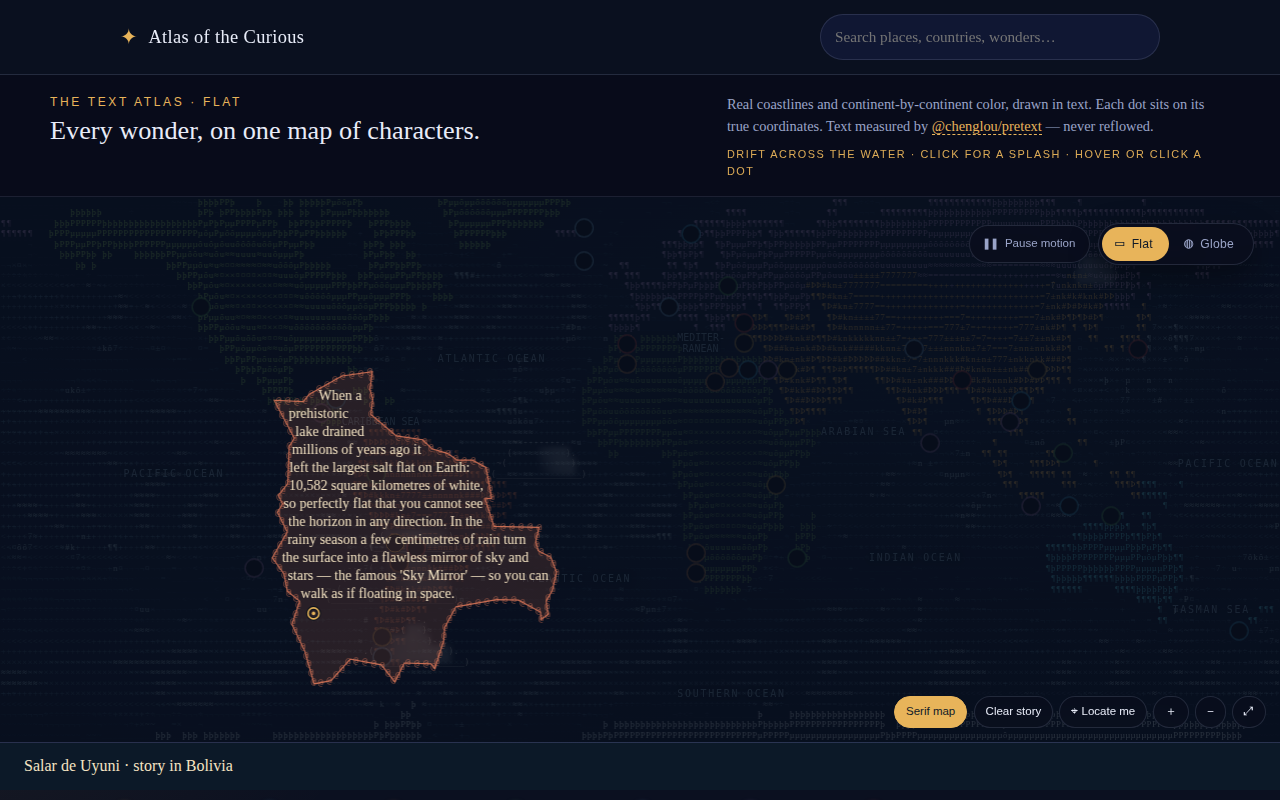
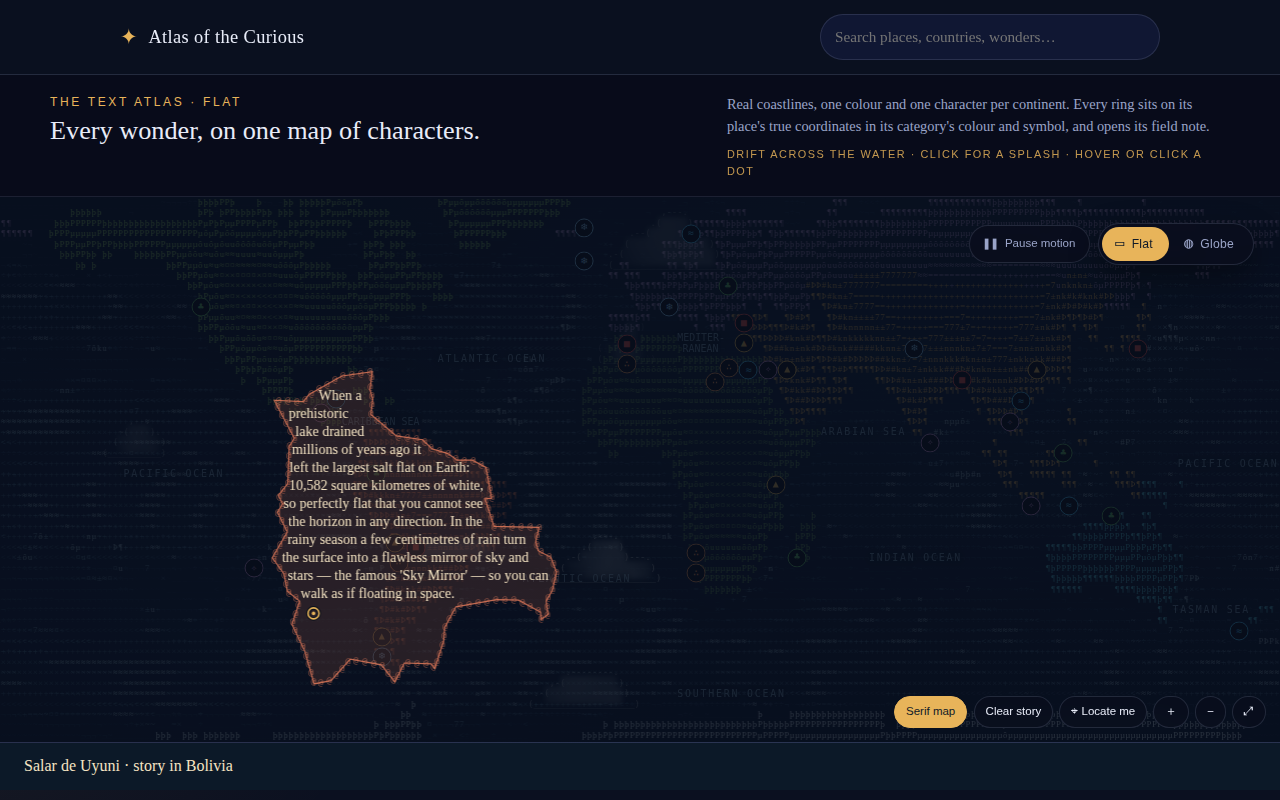
Address review round 5: category symbols, clear names, journeys, copy
- Each category has a text glyph (▲ ≈ ∴ ♣ ❄ ✧ ■) shown in flat rings,
  globe rings and the legend; both previews and every marker's accessible
  name now say the category.
- Globe names keep clear of the controls floating over the stage.
- A keyboard-activated flat cluster focuses its first place and announces
  what it revealed.
- The journey selector starts empty and never offers the open place.
- The intro explains how to read the map; the library credit moves to
  the footer.

Changed region(s): [[0.5625, 0.125, 0.9375, 0.1875]]

diff --git a/earthxt/place-layer.js b/earthxt/place-layer.js
@@ -3,6 +3,7 @@ import { fitHoverTagline } from '../js/hover-card.js';
 import { prepareFlowText } from '../js/map-art.js';
 import { measureNaturalWidth } from '../vendor/pretext/layout.js';
 import { createPlaceRouter, projectPlaces } from './places.js';
+import { categoryGlyph } from '../js/category-colors.js';
 
 const MAX_LEADER = 80;
 
@@ -10,6 +11,8 @@ export class PlaceLayer {
   constructor(stage, layer, places, roles, colors, { standalone = false, onInspect = () => {},
     placeHref = id => `../#/place/${encodeURIComponent(id)}`, onCluster = null } = {}) {
     this.placeHref = placeHref;
+    this.ringFont = roles['map-label'].font.replace(/[\d.]+px/, '8px');
+    this.categoryLabels = new Map((globalThis.ATLAS_DATA?.categories || []).map(category => [category.id, category.label]));
     this.onCluster = onCluster;
     this.clusterButtons = [];
     this.clustered = new Set();
@@ -58,7 +61,8 @@ export class PlaceLayer {
       button.type = 'button';
       button.className = 'globe-marker';
       button.dataset.id = place.id;
-      button.setAttribute('aria-label', `${place.name}, ${place.country}`);
+      const category = this.categoryLabel(place.category);
+      button.setAttribute('aria-label', `${place.name}, ${place.country}${category ? ` — ${category}` : ''}`);
       button.setAttribute('aria-describedby', 'globe-place-card');
       button.style.setProperty('--accent', `var(--category-${place.category}, var(--gold))`);
       button.hidden = true;
@@ -84,7 +88,7 @@ export class PlaceLayer {
     this.card.setAttribute('aria-label', 'Place preview');
     this.card.hidden = true;
     this.parts = {};
-    for (const [name, tag] of [['name', 'span'], ['native', 'span'], ['loc', 'span'], ['tag', 'pre'], ['cta', standalone ? 'p' : 'a']]) {
+    for (const [name, tag] of [['cat', 'span'], ['name', 'span'], ['native', 'span'], ['loc', 'span'], ['tag', 'pre'], ['cta', standalone ? 'p' : 'a']]) {
       const element = document.createElement(tag);
       element.className = `map-card-${name}`;
       this.parts[name] = element;
@@ -116,6 +120,9 @@ export class PlaceLayer {
       const cta = this.standalone ? excerpt : 'Open field note →';
       const native = place.nativeName !== place.name ? place.nativeName : '';
       let textWidth = fit.width;
+      // The category pill is tracked uppercase in a padded, bordered box.
+      const pill = `${categoryGlyph(place.category)} ${this.categoryLabel(place.category)}`.toUpperCase();
+      textWidth = Math.max(textWidth, this.metrics.tightWidthOfText('hover-loc', pill, maxWidth * 2) * 1.12 + 22);
       for (const [role, text] of [['hover-name', place.name], ['native-name', native], ['hover-loc', place.country.toUpperCase()], ['hover-cta', cta]]) {
         if (text) textWidth = Math.max(textWidth, this.metrics.tightWidthOfText(role, text, maxWidth));
       }
@@ -131,6 +138,9 @@ export class PlaceLayer {
     this.card.dataset.id = id;
     this.card.style.setProperty('--accent', `var(--category-${place.category}, var(--gold))`);
     this.card.style.width = `${fit.width}px`;
+    // Category in words and in its glyph, as on the flat map's card.
+    this.parts.cat.textContent = `${categoryGlyph(place.category)} ${this.categoryLabel(place.category)}`;
+    this.parts.cat.style.color = `var(--category-${place.category}, var(--gold))`;
     this.parts.name.textContent = place.name;
     this.parts.native.textContent = fit.native;
     this.parts.native.hidden = !fit.native;
@@ -226,6 +236,11 @@ export class PlaceLayer {
     }
     let visibleMarkers = 0;
     const clustered = this.clustered;
+    // Ring glyphs in the registry's map face, at ring size.
+    ctx.font = this.ringFont;
+    ctx.textAlign = 'center';
+    ctx.textBaseline = 'middle';
+    if (nativeSpacing) ctx.letterSpacing = '0px';
     for (const marker of this.markers) {
       const node = this.nodes.get(marker.id);
       node.hidden = !marker.visible || clustered.has(marker.id);
@@ -238,24 +253,25 @@ export class PlaceLayer {
       const color = this.colors.get(this.byId.get(marker.id).category);
       ctx.globalAlpha = this.dimmed.has(marker.id) ? 0.18 : 1;
       ctx.beginPath();
-      ctx.arc(marker.x, marker.y, 6, 0, Math.PI * 2);
+      ctx.arc(marker.x, marker.y, 7, 0, Math.PI * 2);
       ctx.fillStyle = this.ground;
       ctx.fill();
       ctx.lineWidth = 1.5;
       ctx.strokeStyle = color;
       ctx.stroke();
-      ctx.beginPath();
-      ctx.arc(marker.x, marker.y, 2, 0, Math.PI * 2);
+      // The category glyph in the ring, as in the flat map's markers.
       ctx.fillStyle = color;
-      ctx.fill();
+      ctx.fillText(categoryGlyph(this.byId.get(marker.id).category), marker.x, marker.y + 0.5);
     }
     ctx.globalAlpha = 1;
+    ctx.textAlign = 'left';
     this.positionCard();
     this.drawMetrics.visibleMarkers = visibleMarkers;
     this.drawMetrics.labelledPlaces = this.labels.length;
     this.drawMetrics.placeLabelMs = out.placeLabelMs;
     return this.drawMetrics;
   }
+  categoryLabel(id) { return this.categoryLabels.get(id) || ''; }
   /** At planet scale, rings closer than a ring's width merge into one count
    * that zooms toward its places (`onCluster`); returns the merged ids. */
   clusterMarkers(ctx, level) {

diff --git a/index.html b/index.html
@@ -55,18 +55,17 @@
         <p class="hero-kicker"><span class="for-flat">The Text Atlas · flat</span><span class="for-globe">The Text Atlas · globe</span></p>
         <h2 id="atlas-title" class="atlas-title"><span class="for-flat">Every wonder, on one map of characters.</span><span class="for-globe">Every wonder, on one turning world.</span></h2>
         <p class="atlas-sub for-flat">
-          Real coastlines and continent-by-continent color, drawn in text. Each dot sits on
-          its true coordinates. Text measured by
-          <a class="atlas-cred" href="https://github.com/chenglou/pretext">@chenglou/pretext</a> — never reflowed.
+          Real coastlines, one colour and one character per continent. Every ring sits on its
+          place's true coordinates in its category's colour and symbol, and opens its field note.
         </p>
         <p class="atlas-sub for-globe">
-          The same continents, colors and forty dots, wrapped onto a sphere of characters.
-          Descend from the planet to coastlines to named countries.
+          The same continents, colours and forty rings, wrapped onto a sphere of characters.
+          Descend from the planet to coastlines to named countries; where rings crowd, a numbered ring zooms in.
         </p>
-        <p class="atlas-hint for-flat hint-pointer">drift across the water · click for a splash · hover or click a dot</p>
-        <p class="atlas-hint for-flat hint-touch">tap the water for a splash · tap a dot to open it</p>
-        <p class="atlas-hint for-globe hint-pointer">drag to turn · ctrl + scroll to zoom · hover or click a dot</p>
-        <p class="atlas-hint for-globe hint-touch">swipe sideways to turn · pinch to descend · tap a dot to open it</p>
+        <p class="atlas-hint for-flat hint-pointer">drift over the water · click to splash · hover or click a ring</p>
+        <p class="atlas-hint for-flat hint-touch">tap the water to splash · tap a ring to open it</p>
+        <p class="atlas-hint for-globe hint-pointer">drag to turn · ctrl + scroll to zoom · hover or click a ring</p>
+        <p class="atlas-hint for-globe hint-touch">swipe sideways to turn · pinch to zoom · tap a ring</p>
       </div>
       <div class="map-viewport" role="group" aria-label="The atlas map, shown as a flat character map or as a turning character globe, with 40 marked places.">
         <div class="view-tools">
@@ -174,7 +173,7 @@
   <footer class="site-footer">
     <div class="wrap footer-inner">
       <p><span class="brand-glyph" aria-hidden="true">✦</span> Atlas of the Curious — a static, dependency-free site. No cookies, no trackers, no external requests.</p>
-      <p class="footer-note">Coordinates approximate. Pack water, sunscreen, and humility.</p>
+      <p class="footer-note">Text measured by <a class="atlas-cred" href="https://github.com/chenglou/pretext">@chenglou/pretext</a>, never reflowed. Coordinates approximate. Pack water, sunscreen, and humility.</p>
     </div>
   </footer>
 

diff --git a/js/map.js b/js/map.js
@@ -27,7 +27,7 @@ import {
   TIER_NAME_Z, TIER_TAG_Z, TAG_MAX_LINES
 } from "./labels.js";
 import { fitHoverTagline } from "./hover-card.js";
-import { readCategoryColors } from "./category-colors.js";
+import { readCategoryColors, categoryGlyph } from "./category-colors.js";
 import { wheelZooms } from "./gesture-hint.js";
 import { routeToNearest } from "./nearest-target.js";
 import { createSeaEngine, IDLE_MAX_SENTENCES } from "./sea.js";
@@ -2009,6 +2009,11 @@ import {
         const sx = panX + mapW / 2 + (g.x - mapW / 2) * zoom;
         const sy = panY + mapH / 2 + (g.y - mapH / 2) * zoom;
         zoomTo(Math.max(CLUSTER_UNTIL + 0.1, zoom * 2.4), sx, sy);
+        // The cluster is gone now: say what it opened, and keep keyboard
+        // focus on the map at its first place.
+        const status = $("live-status");
+        if (status) status.textContent = "Zoomed in on " + names.join(", ") + ".";
+        if (e.detail === 0) g.refs[0].el.focus({ preventScroll: true });
       });
       markersEl.appendChild(b);
       clusterEls.push(b);
@@ -3480,10 +3485,12 @@ import {
       m.style.color = `var(--category-${p.category}, var(--gold))`;
       m.style.animationDelay = (Math.random() * 0.6).toFixed(2) + "s";
       m.setAttribute("data-place-id", p.id);
-      m.setAttribute("aria-label", p.name + ", " + p.country + " — open field note");
+      const catLabel = (catById.get(p.category) || { label: "" }).label;
+      m.setAttribute("aria-label", p.name + ", " + p.country + (catLabel ? " — " + catLabel : "") + " — open field note");
       m.setAttribute("aria-describedby", "atlas-place-card");
       const ring = document.createElement("span"); ring.className = "map-marker-ring";
       const g = document.createElement("span"); g.className = "map-marker-glyph";
+      g.textContent = categoryGlyph(p.category);
       m.appendChild(ring); m.appendChild(g);
       markersEl.appendChild(m);
       markerRefs.push({ id: p.id, el: m, x: x.dx, y: x.dy });
@@ -4133,7 +4140,9 @@ import {
       const el = document.createElement("span");
       el.className = "legend-item";
       el.style.setProperty("--chip-accent", `var(--category-${c.id}, var(--gold))`);
-      const dot = document.createElement("i"); dot.className = "legend-dot";
+      const dot = document.createElement("i"); dot.className = "legend-dot legend-glyph";
+      dot.setAttribute("aria-hidden", "true");
+      dot.textContent = categoryGlyph(c.id);
       const t = document.createElement("span");
       t.textContent = c.label + " " + n;
       el.appendChild(dot); el.appendChild(t);

diff --git a/js/dialog.js b/js/dialog.js
@@ -1032,6 +1032,7 @@ function boot(win, doc) {
 
   let current = null;      // the layout currently rendered
   let currentId = null;
+  let syncRoute = null;    // the journey selector follows the open place
   let index = 0;
   let visibleProvider = () => DATA.places;
   let stepAnimation = null;
@@ -1119,6 +1120,7 @@ function boot(win, doc) {
     renderFields(layout);
     current = layout;
     currentId = layout.id;
+    if (syncRoute) syncRoute();
     playReveal(nodes);
   }
 
@@ -1275,6 +1277,13 @@ function boot(win, doc) {
   const countryButton = doc.getElementById('dialog-map-country');
   const routeButton = doc.getElementById('dialog-map-route');
   const routeSelect = doc.getElementById('dialog-route-to');
+  // A journey needs two places: no destination is chosen until the visitor
+  // picks one, and the open place is not offered as its own destination.
+  if (routeSelect) {
+    const prompt = doc.createElement('option');
+    prompt.value = ''; prompt.textContent = 'Choose a destination…';
+    routeSelect.appendChild(prompt);
+  }
   if (routeSelect) for (const p of DATA.places) {
     const option = doc.createElement('option'); option.value = p.id; option.textContent = p.name;
     routeSelect.appendChild(option);
@@ -1297,6 +1306,13 @@ function boot(win, doc) {
     routeButton.addEventListener('click', () => {
       if (currentId && routeSelect.value) revealMap('atlas:map-route', { from: currentId, to: routeSelect.value });
     });
+    syncRoute = () => {
+      for (const option of routeSelect.options) option.disabled = option.value !== '' && option.value === currentId;
+      routeSelect.value = '';
+      routeButton.disabled = true;
+    };
+    routeSelect.addEventListener('change', () => { routeButton.disabled = !routeSelect.value; });
+    if (currentId) syncRoute();
   }
 
   /* ---- The published surface --------------------------------------- */

diff --git a/earthxt/app.js b/earthxt/app.js
@@ -328,6 +328,25 @@ async function main({ embedded = false } = {}) {
   routeToNearest($('globe-markers'), '.globe-marker');
   // Inside the atlas, the search box and category chips dim globe dots too.
   if (embedded) {
+    // The atlas floats its switch, filter readout and control bar over the
+    // stage (not on phones): names keep clear of them. Measured on resize and
+    // when they change, never in a frame.
+    const stageEl = $('globe-stage');
+    const floating = () => [...document.querySelectorAll('.globe-controls, .view-tools, #atlas-filter')];
+    const measureExclusions = () => {
+      const base = stageEl.getBoundingClientRect();
+      renderer.exclusions = floating().filter(el => !el.hidden && el.closest('.map-viewport')).map(el => el.getBoundingClientRect())
+        .filter(r => r.width && r.right > base.left && r.left < base.right && r.bottom > base.top && r.top < base.bottom)
+        .map(r => ({ x: r.left - base.left - 6, y: r.top - base.top - 6, width: r.width + 12, height: r.height + 12 }));
+      dirty = true;
+    };
+    if (typeof ResizeObserver === 'function') {
+      const watch = new ResizeObserver(() => requestAnimationFrame(measureExclusions));
+      watch.observe(stageEl);
+      for (const el of floating()) watch.observe(el);
+    }
+    window.addEventListener('atlas:filter', () => requestAnimationFrame(measureExclusions));
+    window.addEventListener('atlas:view', event => { if (event.detail === 'globe') requestAnimationFrame(measureExclusions); });
     // The page's Pause motion is the one authority: it holds rotation (and the
     // ocean) still, disables Auto-rotate meanwhile, and Resume restores
     // whatever rotation intent the visitor had before pausing.

diff --git a/earthxt/renderer.js b/earthxt/renderer.js
@@ -115,6 +115,7 @@ export class TextRenderer {
     this.countryIds = new Uint8Array(MAX_CELLS);
     this.blockedCells = new Uint8Array(MAX_CELLS);
     this.labelPlacements = [];
+    this.exclusions = [];
     this.nativeSpacing = 'letterSpacing' in this.context;
   }
   // Called at load/font changes, never by draw(): all names are ready before
@@ -266,6 +267,12 @@ export class TextRenderer {
         visible++;
       }
     }
+    // Floating page controls over the stage are no place for a name.
+    for (const zone of this.exclusions) {
+      const c0 = Math.max(0, Math.floor((zone.x - this.grid.x) / cellWidth)), c1 = Math.min(cols - 1, Math.floor((zone.x + zone.width - this.grid.x) / cellWidth));
+      const r0 = Math.max(0, Math.floor((zone.y - this.grid.y) / cellHeight)), r1 = Math.min(rows - 1, Math.floor((zone.y + zone.height - this.grid.y) / cellHeight));
+      for (let row = r0; row <= r1; row++) for (let col = c0; col <= c1; col++) this.blockedCells[row * cols + col] = 1;
+    }
     const projected = performance.now();
     const ctx = this.context;
     ctx.clearRect(0, 0, width, height);
@@ -325,7 +332,7 @@ export class TextRenderer {
     for (const node of this.labelNodes.values()) node.hidden = true;
     this.labelPlacements = [];
     if (!enabled || !level.labels) return 0;
-    const occupied = [], { width, height, focal } = this.viewport;
+    const occupied = [...this.exclusions], { width, height, focal } = this.viewport;
     const radiusSquared = focal * focal / (camera.distance * camera.distance - 1);
     const { cols, rows } = this.grid;
     const slots = countryRunSlots(this.countryIds, cols, rows, this.grid);

diff --git a/css/globe.css b/css/globe.css
@@ -381,6 +381,17 @@
   .globe-controls #labels-toggle { display: none; }
   .lod-switch .map-btn { padding: 5px 9px; }
 }
+.globe-stage .map-card-cat { white-space: nowrap; }
+
+/* Category glyphs: in each flat ring and in the legend, beside the colour. */
+.map-marker-glyph { font: 10px/1 var(--font-mono); pointer-events: none; }
+.legend-dot.legend-glyph {
+  width: auto; height: auto;
+  border-radius: 0; background: none; box-shadow: none;
+  font: normal 0.82rem/1 var(--font-mono);
+  color: var(--chip-accent);
+}
+
 /* The phone flat map's merged rings (js/map.js reclusterFlat). */
 /* A merged dot is transparent, not gone: Tab still reaches each place, and
    the focused one shows itself above its cluster. */

diff --git a/js/category-colors.js b/js/category-colors.js
@@ -12,3 +12,10 @@ export function readContinentColors(doc, continents) {
   return continents.map(name =>
     css.getPropertyValue(`--continent-${name.toLowerCase().replace(/\s+/g, '-')}`).trim() || '#d0a05a');
 }
+
+/* One text glyph per category, so a marker and its legend entry say the
+   category in shape as well as colour (both projections and the legend). */
+export const CATEGORY_GLYPHS = Object.freeze({
+  geology: '▲', coastal: '≈', desert: '∴', forest: '♣', glacier: '❄', sacred: '✧', urban: '■'
+});
+export const categoryGlyph = id => CATEGORY_GLYPHS[id] || '•';
